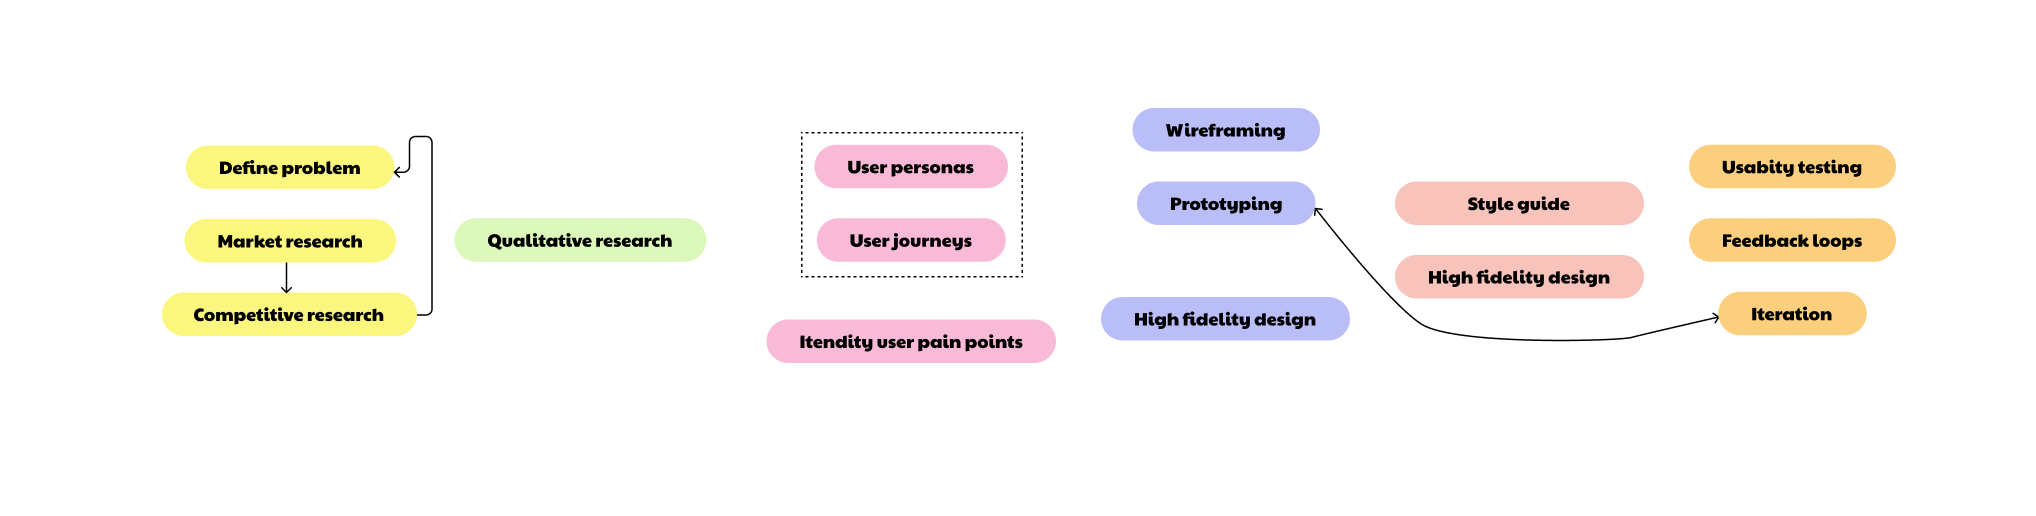
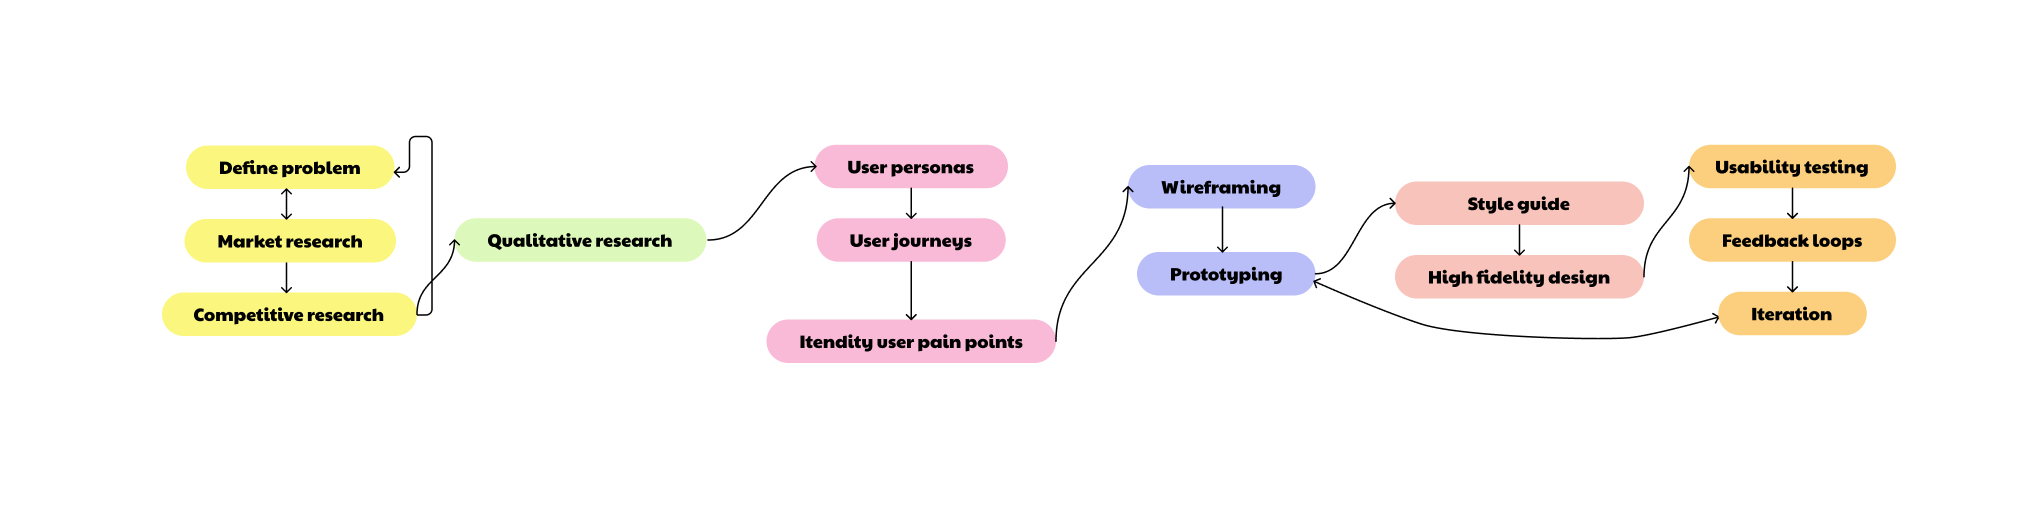
add images and details

diff --git a/ux.html b/ux.html
@@ -43,9 +43,7 @@
   <h1 class="title">By the Bin: Map-based sharing for sustainable living</h1>
   <p class="section__text__p1">Hey, work in progress, please come back in few days</p>
       <img src="./assets/bythebin1.png" alt="By the bin mockup" class="project-banner"/>
-  <div class="project-section">
-  
-    <!-- <img src="./assets/meadows.jpeg" alt="Stooping Project Main Mockup" class="project-banner"/> -->
+
     <div class="ux-section">
   <div class="ux-row">
     <p class="ux-left">Context</p>
@@ -73,66 +71,98 @@
     <p class="ux-right">Designer, user researcher, developer</p>
   </div>
 </div>
-
-<div class="project-section">Research Roadmap</div>
-<img src="./assets/research_roadmap.png" alt="Research Roadmap">
-
-<div class="project-section">Pain Point Mapping</div>
-<img src="./assets/pain_point_journey.png" alt="Pain point journey">
-
-  <div class="project-section">
-    <img src="./assets/wireframe.png" alt="Wireframe" />
-    <p class="project-text">
-      Users can explore available items nearby, post their own finds, and contribute to a community-driven cycle of sharing and sustainability.
+<img src="./assets/meadows.jpeg" alt="Stooping Project Main Mockup" class="project-banner"/>
+<div class="ux-row">
+    <p class="ux-left">Opportunity</p>
+    <p class="ux-right">
+      I start by researching existing sharing platforms. Facebook groups(Edinburgh based group: Meadows share, street bounty) revealed fragmented sharing discussions, Nextdoor(community connection), OLIO(free food sharing) and TooGoodTooGo(surplus food rescue), showed different approaches to connecting sharers with seekers. Current methods for sharing free items are fragmented and inefficient. User either rely on general online platforms like Facebook groups or find items by chance on the street. There is no dedicated, location-aware solution that connects people who have items to share with those actively seeking them in their local area. A specialised resource-sharing application could improve discovery rates and create a more reliable, user-friendly experience for resource sharing.
     </p>
   </div>
+  
+<div class="ux-section">
+  <img src="./assets/research_roadmap.png" alt="Research Roadmap" class="project-banner">
+  <p class="img-text">Research Roadmap</p>
+</div>
 
-  <div class="project-section">
-    <img src="./assets/userflow.png" alt="User Flow Draft" />
-    <p class="project-text">User Flow Draft</p>
-    <img src="./assets/user_flow.png" alt="User Flow" />
-    <p class="project-text">User Flow</p>
-    <p class="project-text">
-      
-    </p>
-  </div>
 
-  <div class="project-section">
-    <img src="./assets/initial_sketch.png" alt="Wireframe" />
-    <p class="project-text">Sketching & Wireframing</p>
-    <p class="project-text">
-      
-    </p>
-  </div>
+  <div class="ux-section">
+    <div class="ux-row">
+  <p class="ux-left">Interview</p>
+  <p class="ux-right">I conducted semi-structured interviews to understand participants' past experiences with existing sharing methods. Through targeted questions about their use of Facebook groups, street discoveries, I identified key pain points including difficulty with local discovery, uncertain item availability. These insights revealed unmet user needs that became central to shaping the app's design.</p>
 
-  <div class="project-section">
-    <img src="./assets/wireframe.png" alt="Wireframe" />
+    <p class="ux-left">User Insight</p>
     
-    <p class="project-text">User Insight</p>
-    <p class="project-text">
-      <ol>
+      <ol class="ux-right">
         <li>Many users enjoy browsing but rarely collect items due to lack of real-time updates or casual curiosity.</li>
         <li>Enthusiastic users want to quickly see nearby items while they’re already out and about.</li>
-        <li>Sharing items feels rewarding — users enjoy giving and seeing others benefit.</li>
+        <li>Easy to use, quick to check item status, location and information</li>
+        <li>Sharing items feels rewarding, users enjoy giving and seeing others benefit.</li>
         <li>Users are forgiving about item quality or availability since everything is free.</li>
       </ol>
+    </div>
+</div>
+
+
+
+<div class="ux-section">
+  <img src="./assets/pain_point_journey.png" alt="Pain point journey" class="project-banner">
+  <p class="img-text">User Journey with Pain Point</p>
+</div>
+
+
+  <!-- <div class="ux-row">
+    <p class="ux-left">Conclusion</p>
+    <p class="ux-right">
+      Users can explore available items nearby, post their own finds, and contribute to a community-driven cycle of sharing and sustainability.
     </p>
+  </div> -->
+
+  <div class="ux-section">
+    <img src="./assets/userflow.png" alt="User Flow Draft" />
+    <p class="img-text">User Flow Draft/App Structure</p>
+    <img src="./assets/user_flow.png" alt="User Flow" />
+    <p class="img-text">Basic User Flow</p>
+    <p class="project-text">
+      
+    </p>
+  </div>
+
+  <div class="ux-section">
+    <img src="./assets/initial_sketch.png" alt="Wireframe" />
+    <p class="img-text">Sketching & Wireframing</p>
+    <p class="project-text">
+    </p>
+  </div>
+
+  <div class="ux-section">
+    <img src="./assets/style_guide.png" alt="Style Guide" class="img-vertical"/>
+    <p class="img-text">Style Guide</p>
+  </div>
+  
+
+  <div class="ux-section">
 
     <p class="project-text">Usability Testing</p>
     <p class="project-text">
       Tested initial designs with target users using task-based scenarios. Identified usability issues and pain points, then iterated on the design to improve user experience based on testing insights.
     </p>
-    <img src="./assets/style_guide.png" alt="Style Guide" />
-    <p class="project-text">Style Guide</p>
+    
 
     <p class="project-text">Iteration</p>
     <p class="project-text">add feature and details, remove gallery feature replaced by tracking item</p>
-
+    <img src="./assets/figma.png" alt="Final Design"/>
+    <p></p>
 
   </div>
-  
 
-  
+  <div class="ux-section">
+    
+    <img src="./assets/develop.jpg" class="img-vertical"/>
+  </div>
+  <div class="ux-section">
+    <p class="project-text">Next</p>
+    <p class="project-text">I'm developing an MVP using React Native and Expo that focuses on core features identified in research. My strategy is to deploy to real users and observe their actual behavior and feedback, which will be invaluable for the next iteration. </p>
+  </div>
 
 </section>
 

diff --git a/style.css b/style.css
@@ -191,7 +191,8 @@ a:hover {
 }
 .project-banner {
   width: 100%;
-  height:600.33px;
+  height:100%;
+  margin-bottom: 1rem;
 }
 
 .section__pic-container {
@@ -550,6 +551,7 @@ footer p {
   grid-template-columns: 120px 1fr;
   align-items: start;
   column-gap: 1.5rem;
+  gap:1rem;
 }
 
 .ux-left {
@@ -565,28 +567,14 @@ footer p {
   text-align: left;
 }
 
-@media (max-width: 600px) {
-  .ux-row {
-    grid-template-columns: 1fr;
-  }
-
-  .ux-left {
-    margin-bottom: 0.3rem;
-  }
+.img-text {
+  text-align: center;
+}
+.img-vertical {
+  width: 100%;
+  max-width: 400px;
+  border-radius: 12px;
+  object-fit: cover;
+  padding: auto;
 }
 
-
-/* Responsive layout tweaks */
-@media (min-width: 768px) {
-  #project-details {
-    padding: 4rem 2rem;
-  }
-
-  .project-section img {
-    max-width: 80%;
-  }
-
-  .project-section .project-text {
-    font-size: 1.25rem;
-  }
-}

diff --git a/mediaqueries.css b/mediaqueries.css
@@ -97,6 +97,17 @@
   br {
     display: none;
   }
+  #project-details {
+    padding: 4rem 2rem;
+  }
+
+  .project-section img {
+    max-width: 80%;
+  }
+
+  .project-section .project-text {
+    font-size: 1.25rem;
+  }
 }
 @media screen and (min-width: 1024px) {
   #desktop-nav {
@@ -249,3 +260,21 @@
     font-size: 1.5rem;
   }
 }
+
+@media (max-width: 600px) {
+  .ux-row {
+    grid-template-columns: 1fr;
+  }
+
+  .ux-left {
+    margin-bottom: 0.3rem;
+  }
+  .project-banner {
+    width:100%;
+    height:100%;
+  }
+  .project-img {
+    max-width: 100%;
+  }
+}
+
